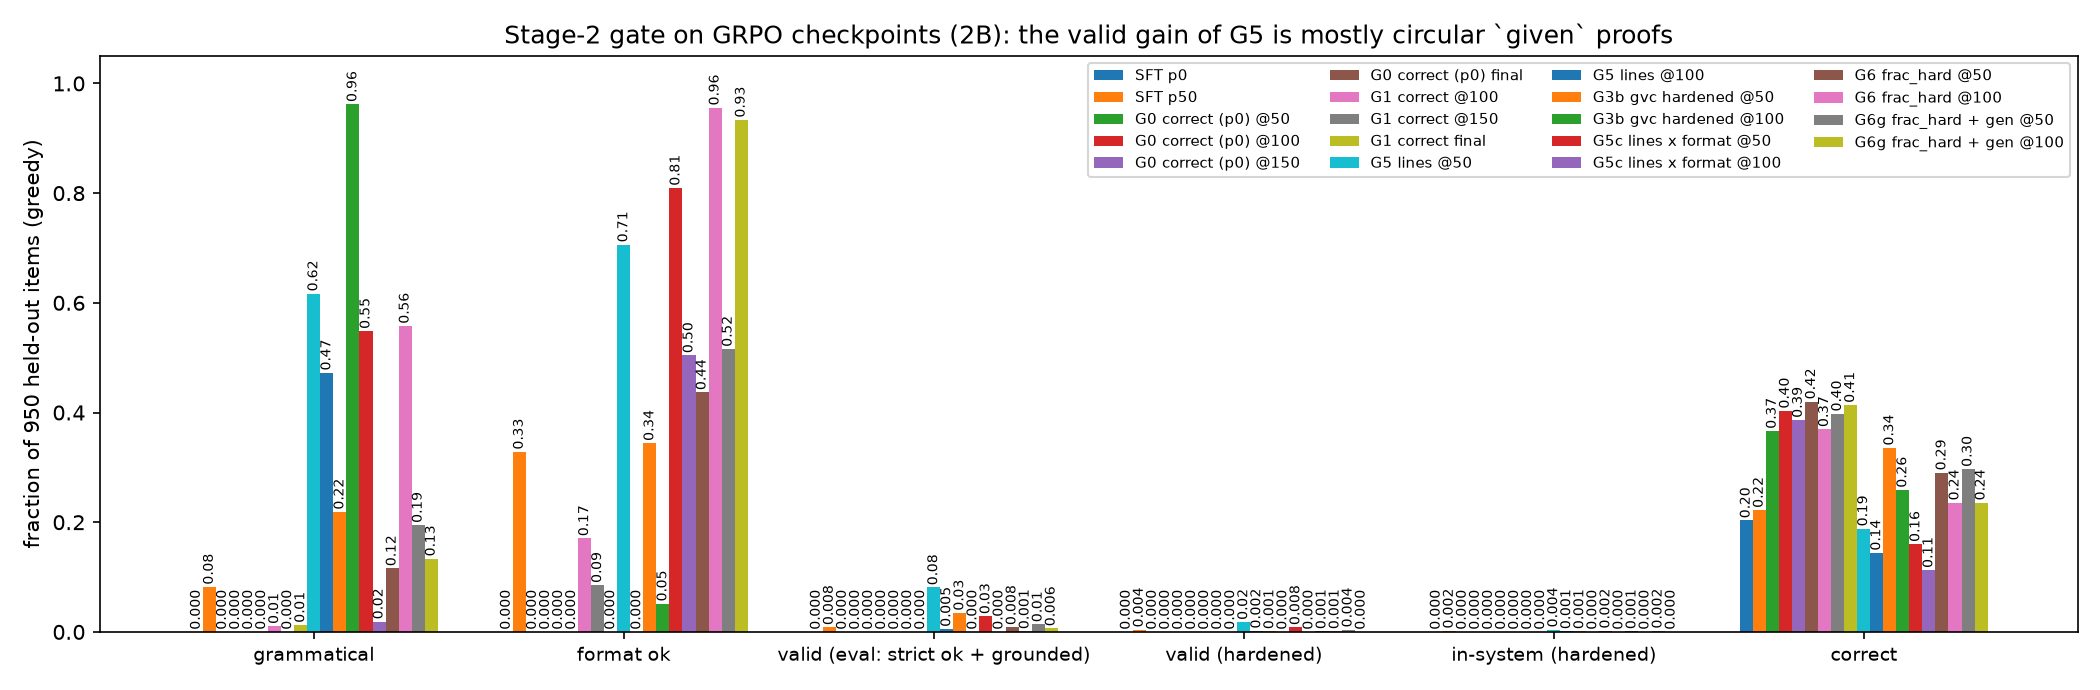
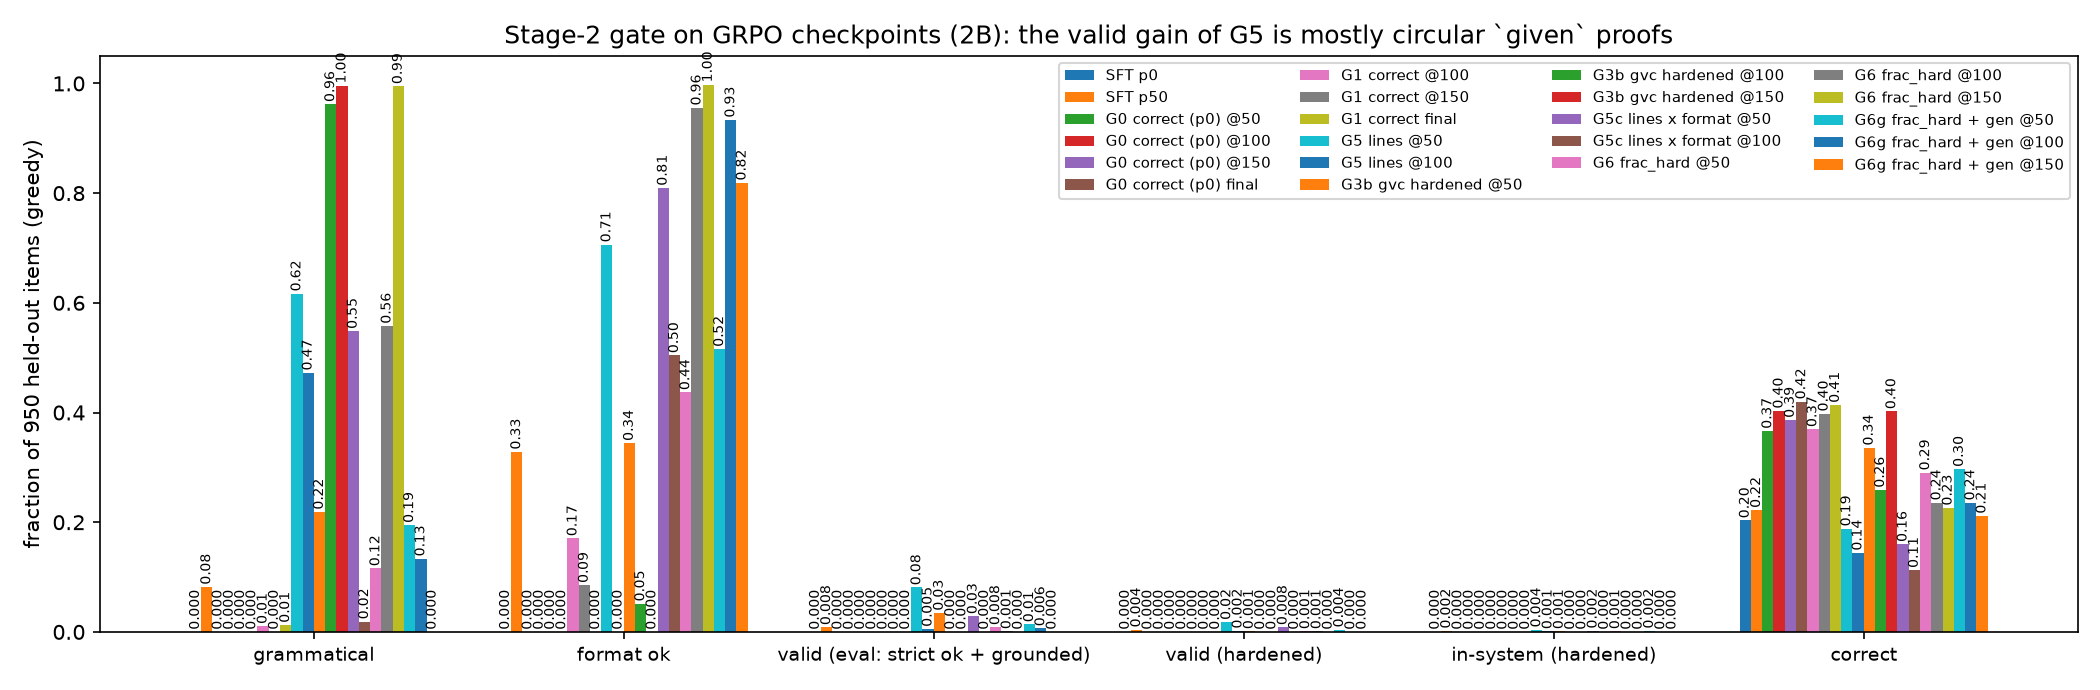
formal_rewards: no credit for restating a cited formula; a derived formula checks only if every line deriving it does
G6 @150 wrote `1 cos=2 ; calc / 2 cos=2 ; calc / 3 cos=2 ; subst 2 1` on 72% of gate items:
lines 1-2 fail, rlvl accepts 3 locally, and per-formula OR credited cos=2. Gate frac_hard .741 -> .408;
G6's last 4 steps: 1024 -> 0 invalid samples with line credit > 1.5. Audit (honest, 1err, hacks) unchanged.

Claude-Session: https://claude.ai/code/session_01WnQYXLXLcnkw9LdZ4eJP3w

diff --git a/scripts/formal_rewards.py b/scripts/formal_rewards.py
@@ -183,16 +183,20 @@ def line_stats(prompt: str, completion: str) -> dict:
     # a block line (`contra`, `cases`, ...) checks only if every line of its body was parsed and checks:
     # rlvl marks the header ok even when its body is wrong or cut by a parse error (G6 @80-95 hack)
     body_ok = lambda lab: all(y in steps and steps[y].get("ok") for y in anc if y.startswith(lab + "."))
+    norm = lambda f: "".join(f.split())
     for lab, r in steps.items():
         f = formula.get(lab)
         # premise-free arithmetic (`4 + 1 = 5 ; calc`, citing nothing) is free padding, like `a = a` (G6 @93)
         ground = rule.get(lab) == "calc" and not cites.get(lab) and not re.search(r"[A-Za-z_]", f or "")
-        if rule.get(lab) not in TRUST and (tautology(f) or ground):
+        # a line restating a formula it cites derives nothing: rlvl accepts `3 cos=2 ; subst 2 1` locally
+        # although lines 1-2 (`cos=2 ; calc`) fail (G6 @150: one such shell on 72% of gate items)
+        restate = any(norm(formula.get(c, "")) == norm(f or "") for c in cites.get(lab, []))
+        if rule.get(lab) not in TRUST and (tautology(f) or ground or restate):
             taut.add(f)
             continue
         parsed[f] = True
-        ok[f] = ok.get(f, False) or bool(r.get("ok") and r.get("rule") not in TRUST and body_ok(lab))
-    norm = lambda f: "".join(f.split())
+        if rule.get(lab) not in TRUST:  # a derived formula checks only if every line deriving it checks
+            ok[f] = ok.get(f, True) and bool(r.get("ok") and body_ok(lab))
     circ = any(rule[x] in TRUST and norm(formula[x]) == norm(formula[root]) for x in anc)
     # fractions over the distinct ancestor formulas: parsed / all, checked derived / derived (tautologies
     # count in the denominator only). No length incentive; the minimum is a 2-line proof.

diff --git a/scripts/analysis/grpo_gate_ckpts.py b/scripts/analysis/grpo_gate_ckpts.py
@@ -36,12 +36,18 @@ MODELS = [
     ("G5 lines @100", GRPO / "2b_p50_G5_lines_bal/checkpoint-100"),
     ("G3b gvc hardened @50", GRPO / "2b_p50_G3b_gvc_hard/checkpoint-50"),
     ("G3b gvc hardened @100", GRPO / "2b_p50_G3b_gvc_hard/checkpoint-100"),
+    ("G3b gvc hardened @150", GRPO / "2b_p50_G3b_gvc_hard/checkpoint-150"),
+    ("G3b gvc hardened final", GRPO / "2b_p50_G3b_gvc_hard/final"),
     ("G5c lines x format @50", GRPO / "2b_p50_G5c_linesfmt/checkpoint-50"),
     ("G5c lines x format @100", GRPO / "2b_p50_G5c_linesfmt/checkpoint-100"),
     ("G6 frac_hard @50", GRPO / "2b_p50_G6_frachard/checkpoint-50"),
     ("G6 frac_hard @100", GRPO / "2b_p50_G6_frachard/checkpoint-100"),
+    ("G6 frac_hard @150", GRPO / "2b_p50_G6_frachard/checkpoint-150"),
+    ("G6 frac_hard final", GRPO / "2b_p50_G6_frachard/final"),
     ("G6g frac_hard + gen @50", GRPO / "2b_p50_G6g_frachard_gen/checkpoint-50"),
     ("G6g frac_hard + gen @100", GRPO / "2b_p50_G6g_frachard_gen/checkpoint-100"),
+    ("G6g frac_hard + gen @150", GRPO / "2b_p50_G6g_frachard_gen/checkpoint-150"),
+    ("G6g frac_hard + gen final", GRPO / "2b_p50_G6g_frachard_gen/final"),
 ]
 KEYS = ["has_proof", "grammatical", "format_ok", "valid_eval", "circular", "n_taut", "valid", "in_system", "correct"]
 
